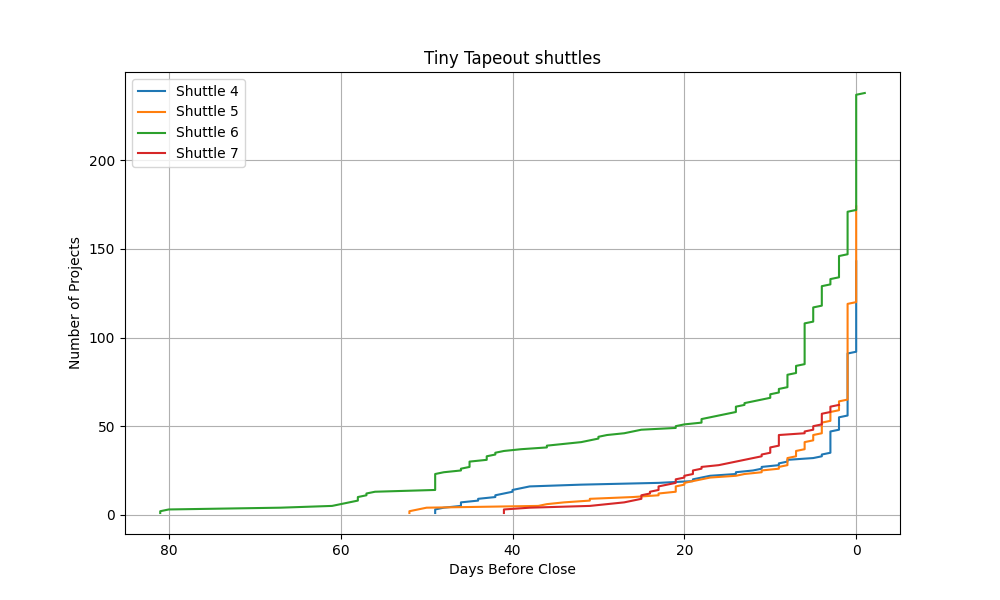
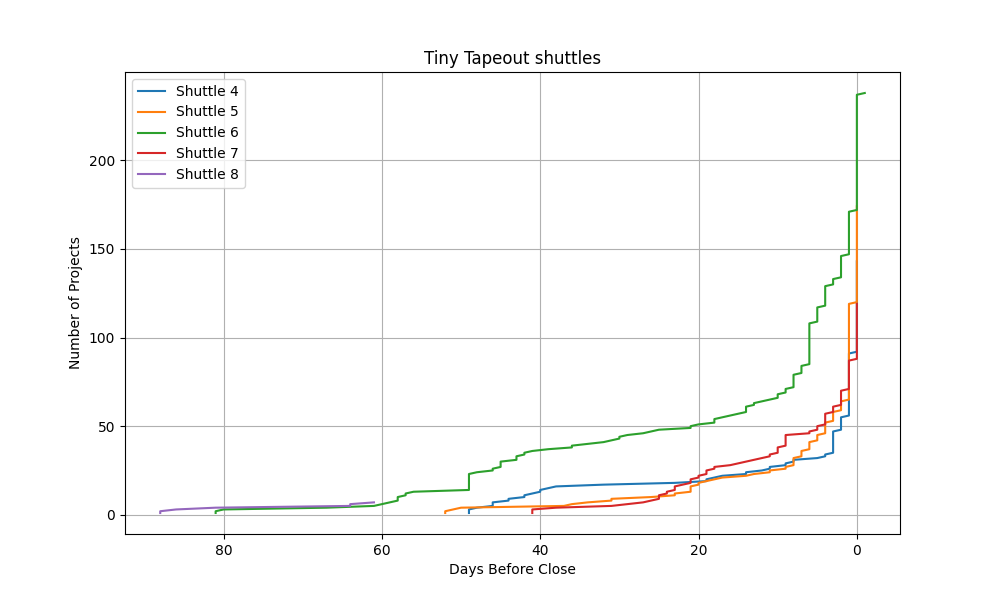
update tt08

diff --git a/parse.py b/parse.py
@@ -5,7 +5,7 @@ import matplotlib.pyplot as plt
 df = pd.read_csv('data.csv')
 
 # Add deadlines for each shuttle
-shuttle_deadlines = {4: "2023-09-08", 5: "2023-11-04", 6: "2024-04-19", 7: "2024-06-01"}
+shuttle_deadlines = {4: "2023-09-08", 5: "2023-11-04", 6: "2024-04-19", 7: "2024-06-01", 8: "2024-09-06"}
 
 # Convert deadlines to datetime objects
 for shuttle_id, deadline in shuttle_deadlines.items():
